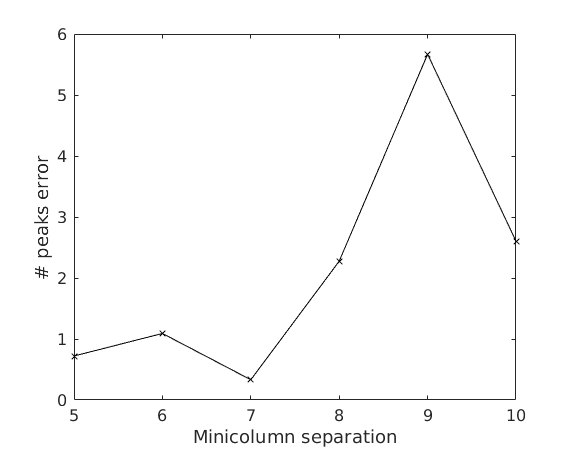
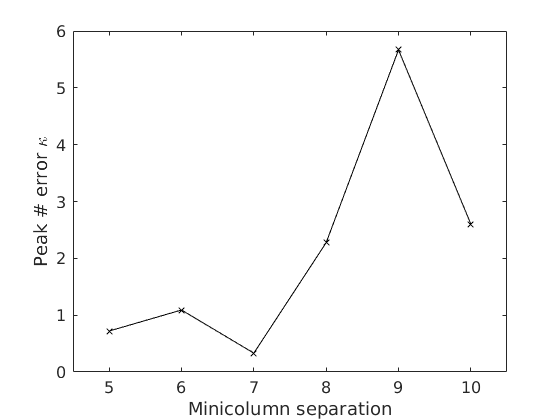
TAC material preparation

diff --git a/microcolumn_paper/MicrocolumnFiringRateEncoding.tex b/microcolumn_paper/MicrocolumnFiringRateEncoding.tex
@@ -43,9 +43,9 @@ Locally connected neurons can spread their firings to neighboring neurons creati
 These travelling waves in locally connected networks have been observed in the cortex of mammalian brains as well as in vitro, and subsequently have been reproduced in silico \cite{keane2015}\cite{ermentrout2001}\cite{wu2008}.
 Cortical traveling waves have been observed on multiple spatial and temporal scales, and a number of functional roles have been proposed \cite{muller2018}.
 
-We propose a neural circuit to encode the firing rate of a population of neurons.
+We propose a neural circuit to encode the population firing rate of a pool of neurons.
 The proposed circuit is composed of locally connected neurons arranged in minicolumns.
-A pool of input neurons is connected to the base of the minicolumns.
+The pool of neurons is connected to the base of the minicolumns.
 Peaks in the population firing rate of the input pool evoke traveling waves that travel up the minicolumns.
 These traveling waves produce a strong, sparse representation at the top of the minicolumns.
 We observe that weakly connected minicolumns produce the most reliable, clean and efficient encoding.
@@ -103,10 +103,6 @@ $\pi$ is the difference in milliseconds between the peak position and the closes
 
 \clearpage
 \section{Results}
-Our basic circuit is an ensemble of nine minicolumns. 
-Each minicolumn is 2x2x20 neurons. 
-We vary the separation between adjacent columns to acheive different degrees of connectivity.
-
 We observe traveling waves in the minicolumns as illustrated in Figure \ref{fig:firing_video} (full videos online).
 The stimulus-evoked traveling waves reliably traverse the minicolumns from bottom to top.
 We also observe some traveling waves initiated by the background noise.
@@ -118,27 +114,39 @@ These spontaneous traveling waves can start from anywhere in the minicolumns, an
    \includegraphics[width=\textwidth]{fig/VideoStills}
 \end{figure}
 
-We observe strong correlation between input firing rate fluctuation and the output of the minicolumn ensemble.
-\begin{figure}[!h]
+We observe strong correlation between the firing rate of the input pool of neurons and the output of the minicolumn ensemble.
+The firing rate stimulus signal is noisy, containing many individual small peaks. 
+It is not clear how a neural processing function would decode this signal.
+The minicolumn ensemble encodes the firing rate peaks as individual spike events (Figure \ref{fig:goodIO}).
+\begin{figure}[!ht]
  \caption{The input stimulus (top) is quite noisy and diffuse. The minicolumn ensemble encodes the input into a sequence of strong, clean spikes (bottom).}
  \label{fig:goodIO}
  \centering
-   \includegraphics[width=0.75\textwidth]{fig/InputOutput_Sep7}
+   \includegraphics[width=\textwidth]{fig/InputOutput_Sep7}
 \end{figure}
+Each peak in the firing rate is encoded as a single spike.
+The spike events are much stronger than any observed background activity.
 
-We measured $\kappa$ and $\pi$ for minicolumn ensembles with inter-column spacing from 4 to 20.
-The columns were constructed of identical neurons.
-The change in spacing alters the inter-column connectivity and action potential propagation time.
-We found that the more highly connected minicolumn ensembles encode the input firing rate with lower error (Figure \ref{fig:encoding_results}).
-Minicolumn ensembles with moderate connectivity accurately encoded the population firing rate of the pool of input neurons.
-Less connected ensembles showed less synchronization in the output, with traveling waves in the individual minicolumns arriving at different times.
-Very highly connected ensembles (separation 3) 
+We calculate $\pi$ and $\kappa$ for minicolumn ensembles with different inter-column separation (Figure \ref{fig:encoding_results}).  
+Minicolumn ensembles with moderate connectivity accurately encoded the population firing rate of the pool of input neurons, with a column separation of 7 minimizing both $\pi$ and $\kappa$..
+The best average $\kappa$ was less than $1/2$ peak difference, while the best $\pi$ was within 30 $ms$.
+
+Very weakly connected ensembles show less synchronization in the output, with traveling waves in the individual minicolumns arriving at different times.
+This is reflected in both an incorrect number of peaks as well as peak positions that are not well correlated to the input.
 
 \begin{figure}[!ht]
- \caption{Firing rate encoding error for minicolumn ensembles of different inter-column spacing. The RMS errors are shown for $\kappa$ (number of peaks) and $\pi$ (peak position).}
+ \caption{ Error results for 100 random trials. (Left) The peak number error $\kappa$ shows that more strongly connected minicolumn ensembles more accurately encode each firing rate peak as a single spike. (Right) The peak 
+            position error $\pi$ is plotted with errorbars of one standard deviation. Minicolumn ensembles with inter-column spacing 7 most accurately represented the firing rate peak timing. }
  \label{fig:encoding_results}
  \centering
-   \includegraphics[width=0.75\textwidth]{fig/EncodingError_10Trials}
+    \begin{subfigure}[b]{0.45\textwidth}
+      \centering
+      \includegraphics[height=2in]{fig/EncodingError_NumPeaks_100trials}
+    \end{subfigure}
+    \begin{subfigure}[b]{0.45\textwidth}
+      \centering
+      \includegraphics[height=2in]{fig/EncodingError_PeakPosition_100trials}
+    \end{subfigure}
 \end{figure}
 
 Minicolumn ensembles close inter-column spacing (2-4 units) do not effectively encode the firing rate information.

diff --git a/sim/audio/FiringRateEncoding.m b/sim/audio/FiringRateEncoding.m
@@ -25,7 +25,7 @@ bins = 0:binDuration:tmax;
 
 colStructBase    = makeFiringRateColumnEnsemble(dt, 4);
 
-colSep = 5:10;
+colSep = 7;
 colStructs = [];
 for cidx = 1:length(colSep)
     cst = makeFiringRateColumnEnsemble(dt, colSep(cidx));
@@ -46,7 +46,7 @@ end
 % 
 % colStructs = [colStructS colStructC];
 
-nTrials = 100;
+nTrials = 1;
 connErr = zeros(length(colStructs), nTrials, 6);
 nFirings = zeros(length(colStructs), nTrials);
 
@@ -90,20 +90,24 @@ for iTrial = 1:nTrials
         nFirings(connIdx, iTrial) = size(firings,1);
         
         %Plot results
-%         inputMP = mean(vall(1:colStruct.Nlayer,:));
-%         outputMP = mean(vall(end-colStruct.Nlayer:end,:));
-%         yMin = min([inputMP outputMP]);
-%         yMax = max([inputMP outputMP]);
-%         h = figure(200); h.Position = [2159 -42 712 943];
-%         h=subplot(2,1,1); plot(t, mean(st(1:colStruct.Nlayer,:)),'k')
-%         h.Position = [0.1300 0.7093 0.7750 0.2157];
-%         set(gca, 'XTick', [])
-%         ylabel('Mean input (mV)');
-%         set(gca, 'FontSize', 12);
-%         subplot(2,1,2); plot(t, outputMP, 'k');
-%         ax = axis; ax(3) = yMin; ax(4) = yMax; axis(ax);
-%         xlabel('Time (ms)'); ylabel('Mean output (mV)'); 
-%         set(gca, 'FontSize',12); 
+        inputMP = mean(vall(1:colStruct.Nlayer,:));
+        outputMP = mean(vall(end-colStruct.Nlayer:end,:));
+        yMin = min([inputMP outputMP]);
+        yMax = max([inputMP outputMP]);
+        h = figure(200); h.Position = [2159 -42 712 943];
+        h=subplot(3,1,1); plot(t, mean(st(1:colStruct.Nlayer,:)),'k')
+        h.Position = [0.1300 0.7093 0.7750 0.2157];
+        set(gca, 'XTick', [])
+        ylabel('Mean stimulus (mV)');
+        set(gca, 'FontSize', 12);
+        subplot(3,1,2); plot(t, inputMP, 'k');
+        ax = axis; ax(3) = yMin; ax(4) = yMax; axis(ax);
+        xlabel('Time (ms)'); ylabel('Mean base layer potential (mV)'); 
+        set(gca, 'FontSize',12);
+        subplot(3,1,3); plot(t, outputMP, 'k');
+        ax = axis; ax(3) = yMin; ax(4) = yMax; axis(ax);
+        xlabel('Time (ms)'); ylabel('Mean output layer potential (mV)'); 
+        set(gca, 'FontSize',12); 
 
     end %End loop over columns
 end %End loop over trials
@@ -116,21 +120,28 @@ for jj=1:length(colStructs)
     colSep(jj) = colStructs(jj).structure.columnSpacing;
 end
 
-figure; errorbar(colSep, meanErr(:,5), stdErr(:,6), 'kx-')
+%Plot output results
+h = figure(300); plot(colSep, rmsErr(:,4),'kx-')
+ax = axis; ax(1) = ax(1)-0.5; ax(2) = ax(2)+0.5; axis(ax);
+xlabel('Minicolumn separation'); ylabel('Peak # error \kappa');
+set(gca, 'FontSize', 12);
+h2 = figure(301); errorbar(colSep, meanErr(:,5), stdErr(:,5), 'kx-')
+ax = axis; ax(1) = ax(1)-0.5; ax(2) = ax(2)+0.5; axis(ax);
+xlabel('Minicolumn separation'); ylabel('Peak position error \pi');
+set(gca, 'FontSize', 12);
 
 
-%figure(20); plot(colSep, 100*rmsErr(:,3)./9,'kx-');
-%hold on; plot(colSep, 100*rmsErr(:,4)./333,'bx-');
-figure; [ax h1 h2] = plotyy(colSep, rmsErr(:,3), colSep, rmsErr(:,4));
-%h1.Color = 'black'; h1.LineStyle = '-.';
-%h2.Color = 'black'; h2.Marker = 'x';
-
-xlabel('Minicolumn separation');
-ylabel(ax(1), 'RMS error, # of peaks')
-ylabel(ax(2), 'RMS peak position error (ms)')
-%ax(1).YColor = 'black'; ax(2).YColor = 'black';
-legend('# peaks error \kappa', 'Peak position error \pi');
-set(gca,'FontSize',12);
+%Plot output compared to inpuit
+h = figure(400); plot(colSep, rmsErr(:,4),'kx-')
+hold on; plot(colSep, rmsErr(:,1), 'kx--')
+ax = axis; ax(1) = ax(1)-0.5; ax(2) = ax(2)+0.5; axis(ax);
+xlabel('Minicolumn separation'); ylabel('Peak # error \kappa');
+set(gca, 'FontSize', 12);
+h2 = figure(401); errorbar(colSep, meanErr(:,5), stdErr(:,5), 'kx-')
+hold on; errorbar(colSep, meanErr(:,2), stdErr(:,2), 'kx--')
+ax = axis; ax(1) = ax(1)-0.5; ax(2) = ax(2)+0.5; axis(ax);
+xlabel('Minicolumn separation'); ylabel('Peak position error \pi');
+set(gca, 'FontSize', 12);
 
 %% plotting
 % h = figure(200); h.Position = [2159 -42 712 943];
